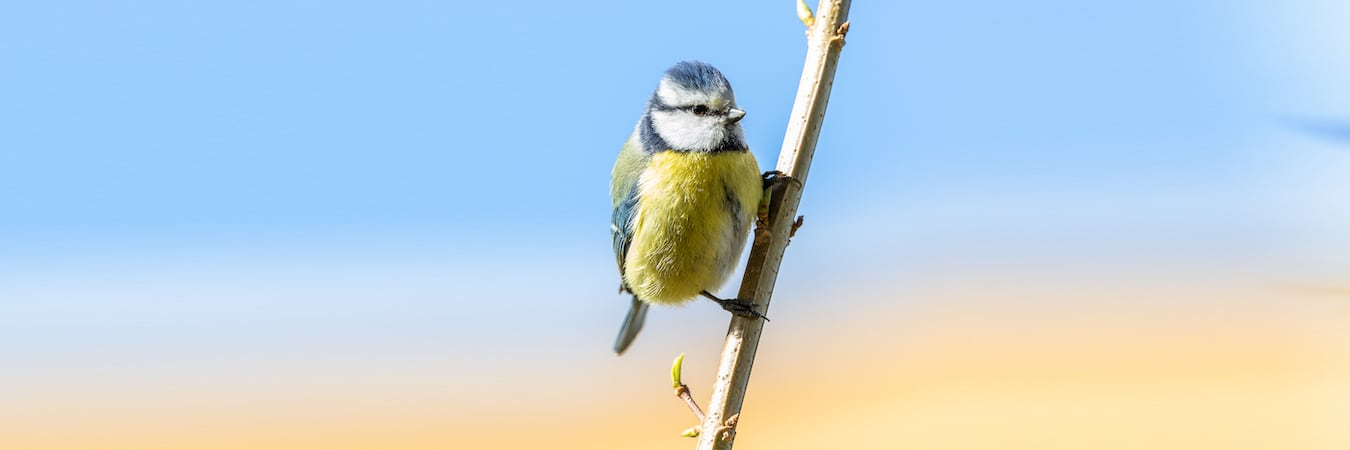
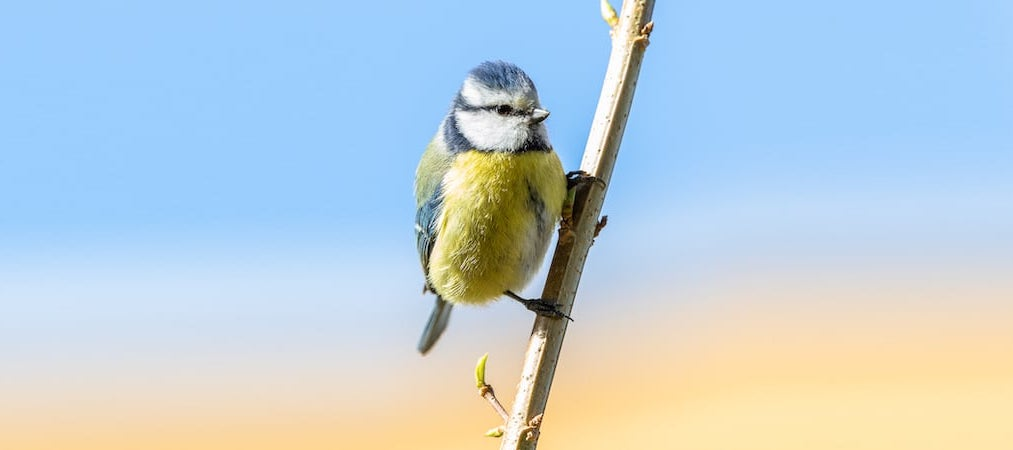
Ensure widgets render properly again - proper display scale factor must be considered - replace placeholder and example preview images with images having correct proportions (as servced from website)

Changed region(s): [[0.3978, 0.0, 0.6732, 1.0], [0.9181, 0.0, 1.0, 0.28], [0.9487, 0.3111, 1.0, 0.4356]]

diff --git a/BirdOfTheDayWidget/BirdOfTheDayWidget.swift b/BirdOfTheDayWidget/BirdOfTheDayWidget.swift
@@ -16,7 +16,9 @@ struct BirdOfTheDayProvider: TimelineProvider {
         let speciesID = -1
         let name = "Blaumeise"
         let date = Date.distantFuture
-        let images = UIImage.resizedImages(from: Bundle.placeholderJpg, displaySize: context.displaySize)
+
+        let displaySize = CGSize(width: ceil(context.displaySize.height/9.0*16*1.48), height: context.displaySize.height)
+        let images = UIImage.resizedImages(from: Bundle.placeholderJpg, displaySize: displaySize)
 
         return SimpleEntry(speciesID: speciesID, name: name, date: date, image: images.image, bgImage: images.bgImage)
     }
@@ -26,21 +28,23 @@ struct BirdOfTheDayProvider: TimelineProvider {
         let name = "Blaumeise"
         let imageData = Bundle.placeholderJpg
         let reloadDate = Date.distantFuture
-        let images = UIImage.resizedImages(from: imageData, displaySize: context.displaySize)
+
+        let displaySize = CGSize(width: ceil(context.displaySize.height/9.0*16*1.48), height: context.displaySize.height)
+        let images = UIImage.resizedImages(from: imageData, displaySize: displaySize)
 
         completion(SimpleEntry(speciesID: speciesID, name: name, date: reloadDate, image: images.image, bgImage: images.bgImage))
     }
 
     func getTimeline(in context: Context, completion: @escaping (Timeline<Entry>) -> Void) {
         DataFetcher.shared.getBirdOfTheDay { (speciesID, name, url, reloadDate) in
-            print(#function, context.family)
+            print(#function, context.family, context.displaySize)
 
             // Get widget size and display scale
             let displaySize = CGSize(width: ceil(context.displaySize.height/9.0*16*1.48), height: context.displaySize.height)
-            let displayScale = context.environmentVariants.displayScale?.reduce(1, { max($0, $1) }) ?? 1
+            let displayScale = UIScreen.main.scale
 
-            let images = UIImage.resizedImages(from: url, displaySize: displaySize, displayScale: displayScale)
-            let entry = SimpleEntry(speciesID: speciesID, name: name, date: reloadDate, image: images.image, bgImage: images.bgImage)
+            let (image, bgImage) = UIImage.resizedImages(from: url, displaySize: displaySize, displayScale: displayScale)
+            let entry = SimpleEntry(speciesID: speciesID, name: name, date: reloadDate, image: image, bgImage: bgImage)
             let timeline = Timeline(entries: [entry], policy: .after(reloadDate))
             completion(timeline)
         }
@@ -54,18 +58,6 @@ struct SimpleEntry: TimelineEntry {
 
     let image: UIImage
     let bgImage: UIImage
-
-    static var example: SimpleEntry {
-        let images = UIImage.resizedImages(from: Bundle.placeholderJpg)
-        return SimpleEntry(speciesID: 3800, name: "Blaumeise", date: Date.distantFuture, image: images.image, bgImage: images.bgImage)
-    }
-
-#if DEBUG
-    static var exampleReal: SimpleEntry {
-        let images = UIImage.resizedImages(from: Bundle.realPlaceholderJpg)
-        return SimpleEntry(speciesID: 2980, name: "Hohltaube", date: Date.distantFuture, image: images.image, bgImage: images.bgImage)
-    }
-#endif
 }
 
 struct BirdOfTheDayWidgetEntryView: View {
@@ -136,8 +128,7 @@ extension View {
 }
 
 extension WidgetConfiguration {
-    func contentMarginsDisabledIfAvailable() -> some WidgetConfiguration
-    {
+    func contentMarginsDisabledIfAvailable() -> some WidgetConfiguration {
         if #available(iOSApplicationExtension 17.0, *) {
             return self.contentMarginsDisabled()
         }
@@ -174,7 +165,7 @@ struct BirdOfTheDayWidget_Previews: PreviewProvider {
 
     static var previews: some View {
         Group {
-            BirdOfTheDayWidgetEntryView(entry: .example)
+            BirdOfTheDayWidgetEntryView(entry: .exampleReal2)
 //                .previewContext(WidgetPreviewContext(family: .systemSmall))
                 .previewContext(WidgetPreviewContext(family: .systemMedium))
 //                .previewContext(WidgetPreviewContext(family: .systemLarge))

diff --git a/BirdOfTheDayWidget/UIImage-resize.swift b/BirdOfTheDayWidget/UIImage-resize.swift
@@ -11,13 +11,12 @@ import CoreImage
 
 extension UIImage {
     @available(iOS 14.0, *)
-    static func resizedImages(from url: URL, displaySize: CGSize? = nil, displayScale: CGFloat = 1) -> (image: UIImage, bgImage: UIImage) {
+    static func resizedImages(from url: URL, displaySize size: CGSize = CGSize(width: 338, height: 354), displayScale: CGFloat = 2) -> (image: UIImage, bgImage: UIImage) {
         let context = CIContext()
         guard let cgImageSource = CGImageSourceCreateWithURL(url as CFURL, nil as CFDictionary?) else {
             fatalError("🔴 unable to get input image")
         }
         let inputImage = CIImage(cgImageSource: cgImageSource, index: 0)
-        let size = displaySize ?? CGSize(width: 1414, height: 450)
 
         // Extract center of image
         guard let filter = CIFilter(name: "CIStretchCrop") else {
@@ -25,7 +24,7 @@ extension UIImage {
         }
         filter.setDefaults()
         filter.setValue(inputImage, forKey: "inputImage")
-        filter.setValue(CIVector(x: size.width, y: size.height), forKey: "inputSize")
+        filter.setValue(CIVector(x: size.width * displayScale, y: size.height * displayScale), forKey: "inputSize")
         filter.setValue(NSNumber(value: 1), forKey: "inputCropAmount")
         filter.setValue(NSNumber(value: 0), forKey: "inputCenterStretchAmount")
 

diff --git a/BirdOfTheDayWidget/Preview Content/Preview-extensions.swift b/BirdOfTheDayWidget/Preview Content/Preview-extensions.swift
@@ -1,0 +1,21 @@
+//
+//  Bundle-sampleData.swift
+//  BirdOfTheDayWidgetExtension
+//
+//  Created by Philipp on 03.05.23.
+//  Copyright © 2023 Philipp. All rights reserved.
+//
+
+import UIKit
+
+extension SimpleEntry {
+    static var exampleReal: SimpleEntry {
+        let image = UIImage(resource: .bod0900)
+        return SimpleEntry(speciesID: 900, name: "Schellente", date: Date.distantFuture, image: image, bgImage: image)
+    }
+
+    static var exampleReal2: SimpleEntry {
+        let image = UIImage(resource: .bod1060)
+        return SimpleEntry(speciesID: 1060, name: "Mittelsäger", date: Date.distantFuture, image: image, bgImage: image)
+    }
+}

diff --git a/BirdOfTheDayWidget/Bundle-sampleData.swift b/BirdOfTheDayWidget/Bundle-sampleData.swift
@@ -15,13 +15,4 @@ extension Bundle {
         }
         return url
     }
-
-#if DEBUG
-    static var realPlaceholderJpg: URL {
-        guard let url = Bundle.main.url(forResource: "RealPlaceholder.jpg", withExtension: nil) else {
-            fatalError("Unable to load RealPlaceholder.jpg data from bundle")
-        }
-        return url
-    }
-#endif
 }
